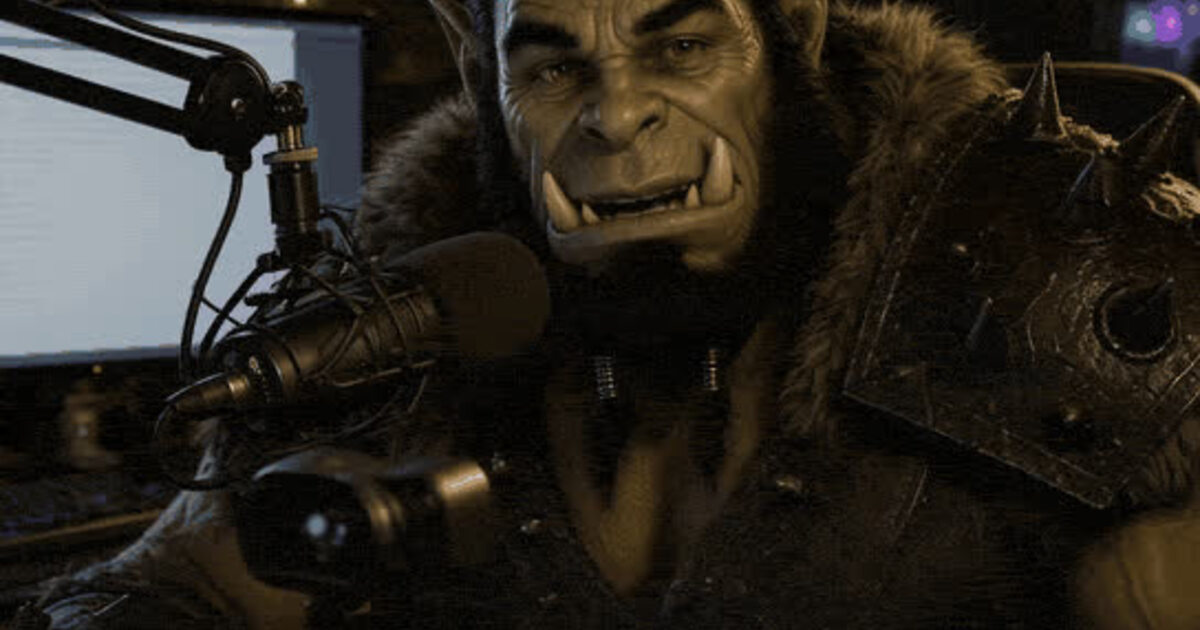
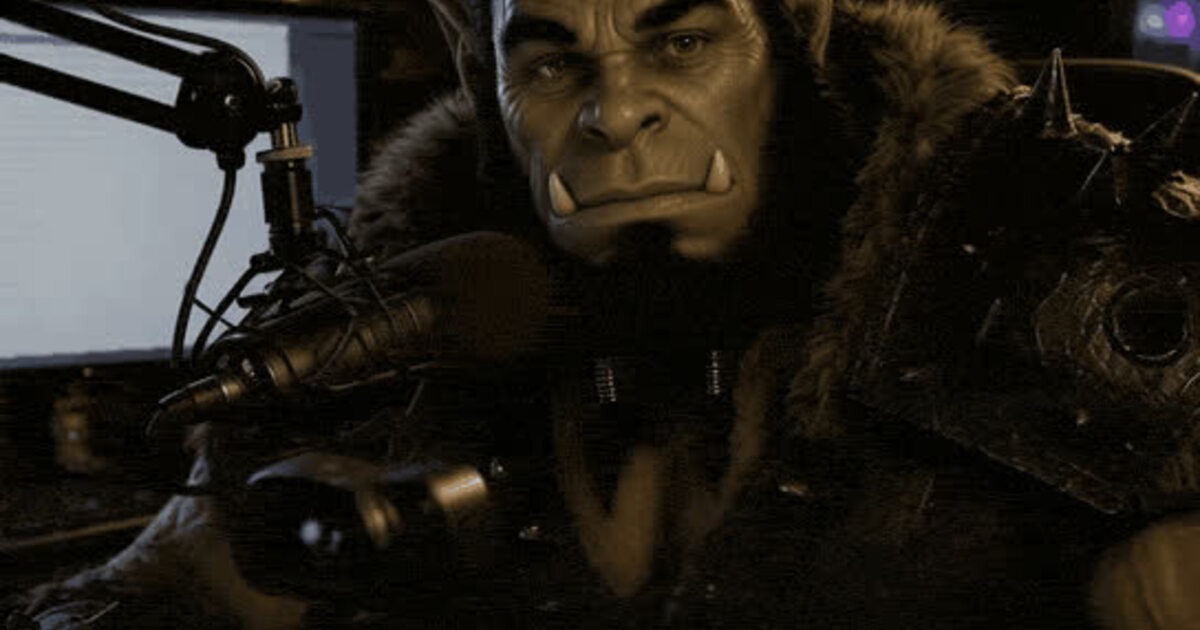
Reshoot Livestream as a still look at the camera.

diff --git a/scripts/imagine-video.ts b/scripts/imagine-video.ts
@@ -66,7 +66,7 @@ const PROMPTS: Record<string, string> = {
   laugh:
     "The orc laughs hard, mouth open, shoulders shaking, head tipping back a little, joyful laugh holding. Locked camera.",
   livestream:
-    "The orc talks to the livestream camera, a small nod, mouth moving, streamer energy holding. Locked camera.",
+    "The orc looks at the camera and holds still, mouth closed, one small blink. No talking, no nodding, no waving. Locked camera.",
   morning:
     "The orc lifts the coffee mug slightly, steam rising from the cup, a warm morning blink. Locked camera.",
   nod: "The orc nods his head yes twice and holds the thumbs-up, a satisfied blink. Natural character animation, locked camera, no zoom or pan.",
